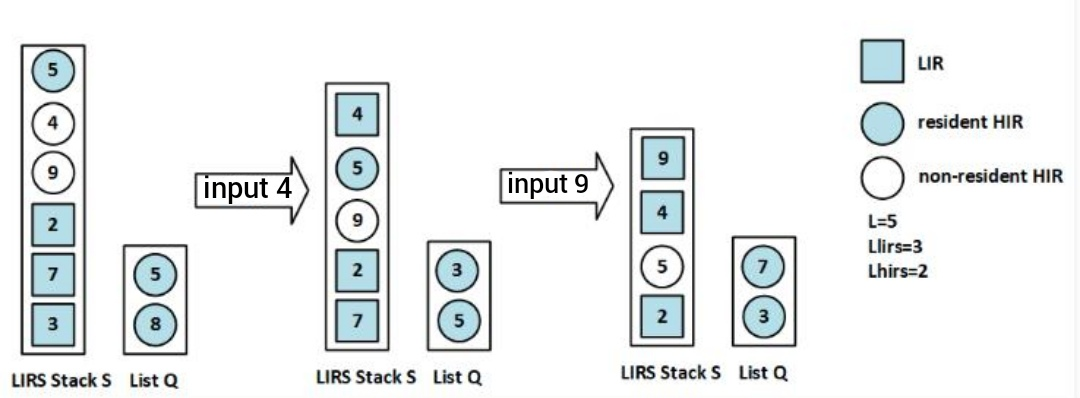
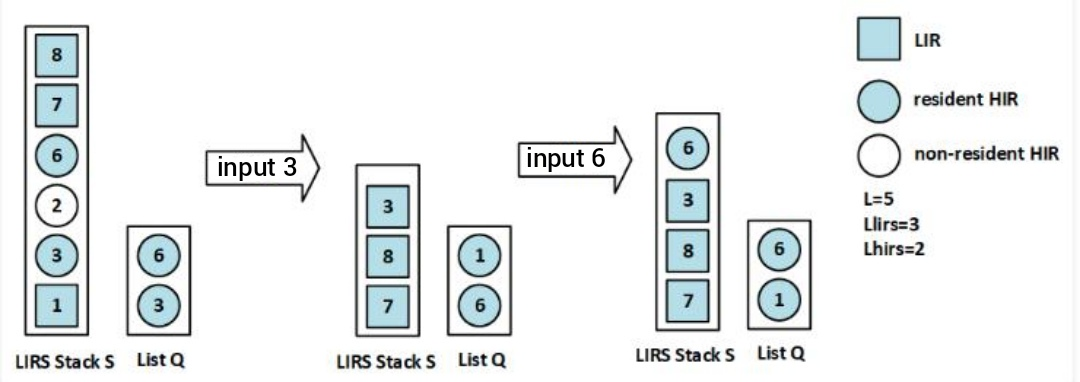
Change picture

diff --git a/README.md b/README.md
@@ -109,8 +109,8 @@ files stored in the list (Resident_HIR) will be on the stack.
 **Calling a file not written to the cache or stack:**
 ![Calling a file not written to the cache or stack](https://github.com/xKobi74/LIRS-cache/blob/main/pictures/3.jpg)
 
-**Calling a non-resident file written to stack:**
-![Calling a non-resident file written to stack](https://github.com/xKobi74/LIRS-cache/blob/main/pictures/4.jpg)
+**Calling a file written to the stack and to list:**
+![Calling a file written to the stack and to list](https://github.com/xKobi74/LIRS-cache/blob/main/pictures/4.jpg)
 
 ---
 
